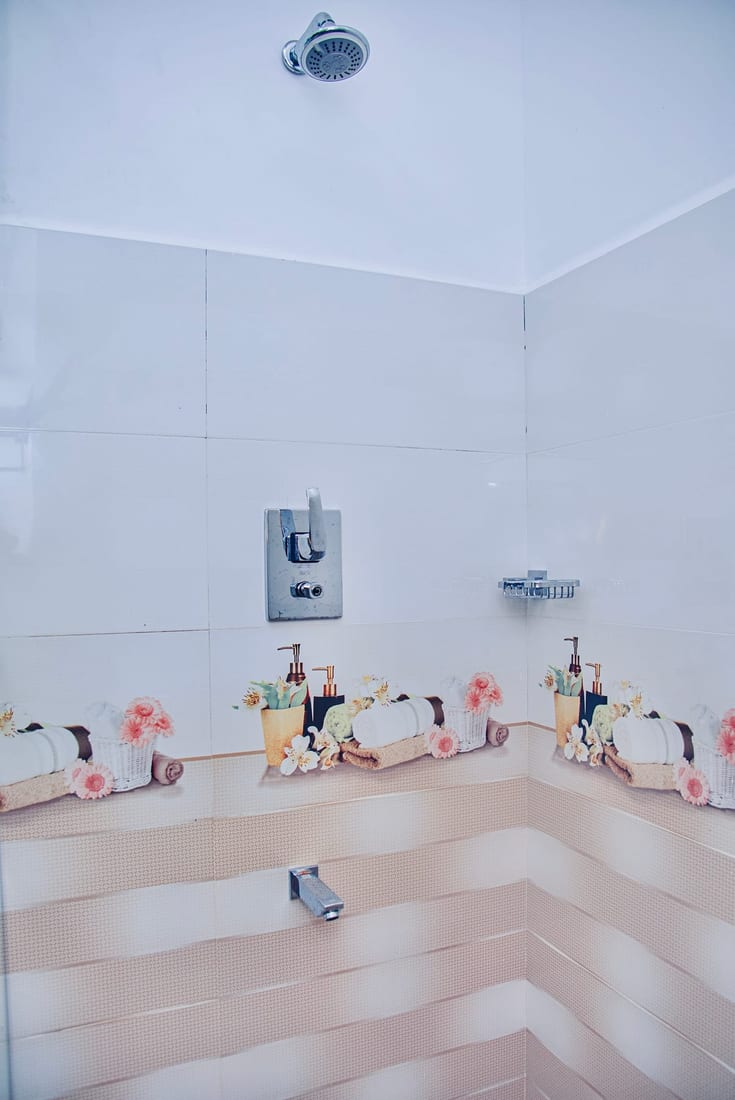
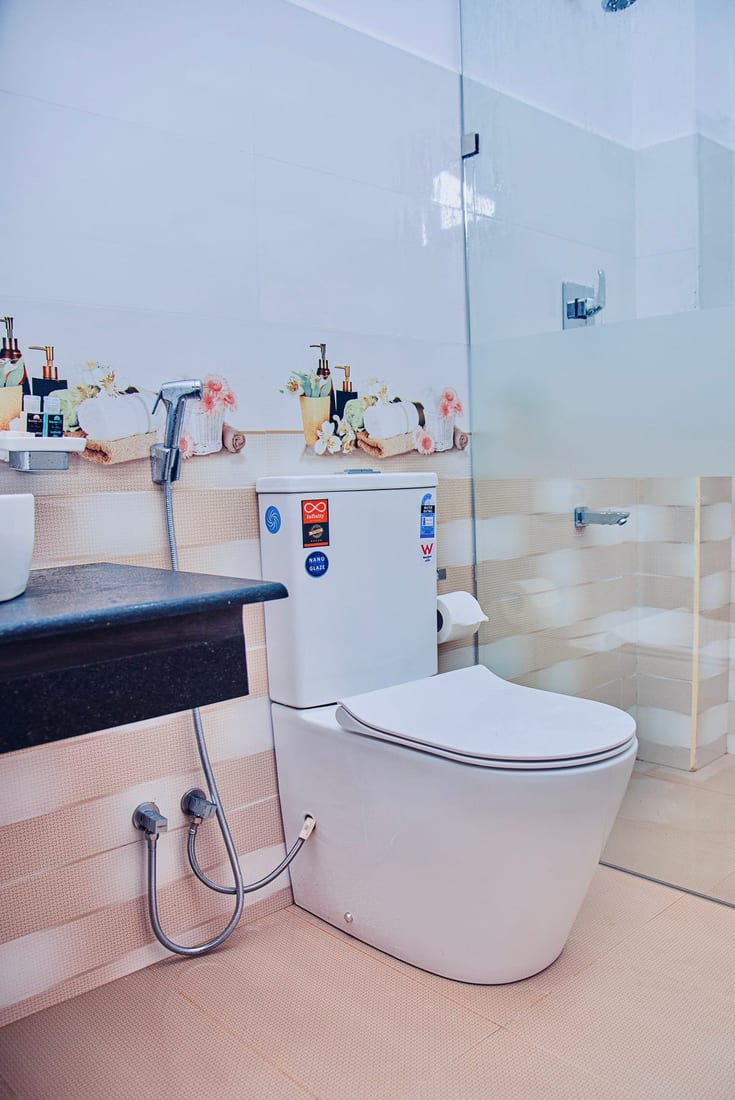
Drop the two gallery tiles that duplicated existing shower and basin photos
The gallery already carried the shower and basin shots, so the row
showed the basin twice. Keep only the balcony doors, sunrise and toilet
as new tiles, six photos per row.

diff --git a/components/home/Gallery/GalleryTickers.tsx b/components/home/Gallery/GalleryTickers.tsx
@@ -9,14 +9,14 @@ import { asset } from "@/lib/assets";
 
 import styles from "./Gallery.module.css";
 
-/** Three marquee rows, twenty photos between them. The middle row runs
- *  the other way. Order within a row is just a pleasant mix of wide and
- *  tall. gal-16 to gal-20 are the balcony doors, the sunrise and the
+/** Three marquee rows, six photos each. The middle row runs the other
+ *  way. Order within a row is just a pleasant mix of wide and tall.
+ *  gal-16, gal-17 and gal-18 are the balcony doors, the sunrise and the
  *  bathroom, which also appear on every room page. */
 const rows = [
-  ["gal-01", "gal-02", "gal-11", "gal-16", "gal-04", "gal-07", "gal-18"],
-  ["gal-03", "gal-12", "gal-05", "gal-17", "gal-08", "gal-13", "gal-19"],
-  ["gal-09", "gal-14", "gal-06", "gal-10", "gal-20", "gal-15"],
+  ["gal-01", "gal-02", "gal-11", "gal-16", "gal-04", "gal-07"],
+  ["gal-03", "gal-12", "gal-05", "gal-17", "gal-08", "gal-13"],
+  ["gal-09", "gal-14", "gal-06", "gal-10", "gal-18", "gal-15"],
 ];
 
 const all = rows.flat();
